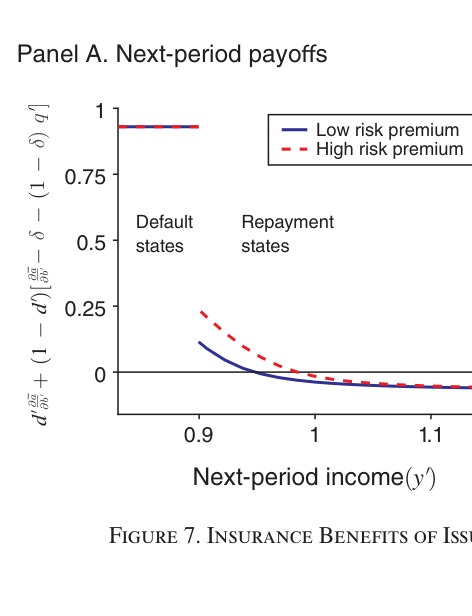
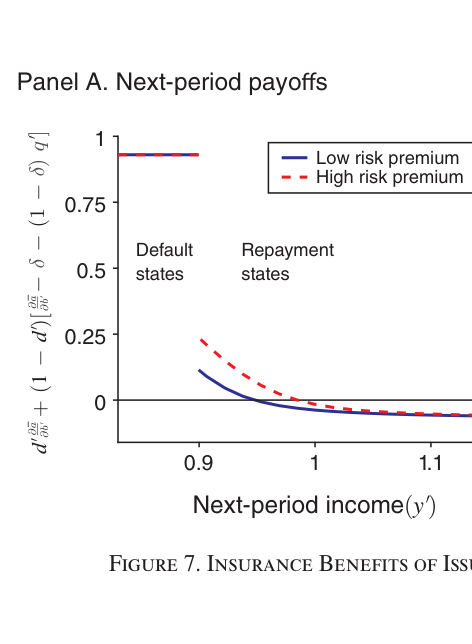
Restore original fig_reserves_AER.png without any cropping

diff --git a/Research.htm b/Research.htm
@@ -429,7 +429,7 @@
     </div>
 
     <div class="paper" data-abstract="We study the optimal accumulation of international reserves in a quantitative model of sovereign default with long-term debt and a risk-free asset. Keeping higher levels of reserves provides a hedge against rollover risk, but this is costly because using reserves to pay down debt allows the government to reduce sovereign spreads. Our model, parameterized to mimic salient features of a typical emerging economy, can account for significant holdings of international reserves, and the larger accumulation of both debt and reserves in periods of low spreads and high income. We also show that income windfalls, improved policy frameworks, and an increase in the importance of rollover risk imply increases in the optimal holdings of reserves that are consistent with the upward trend in reserves in emerging economies. It is essential for our results that debt maturity exceeds one period.">
-      <div class="paper-figure"><img src="figures/fig_reserves_AER.png" alt="Reserves vs likelihood of sudden stops" style="object-position: center 24%;"></div>
+      <div class="paper-figure"><img src="figures/fig_reserves_AER.png" alt="Reserves vs likelihood of sudden stops"></div>
       <div class="paper-info">
         <div class="paper-title"><a href="research_publications/reserves_aer.pdf">International Reserves and Rollover Risk</a></div>
         <div class="paper-authors">with Juan Carlos Hatchondo and Leonardo Martinez</div>
